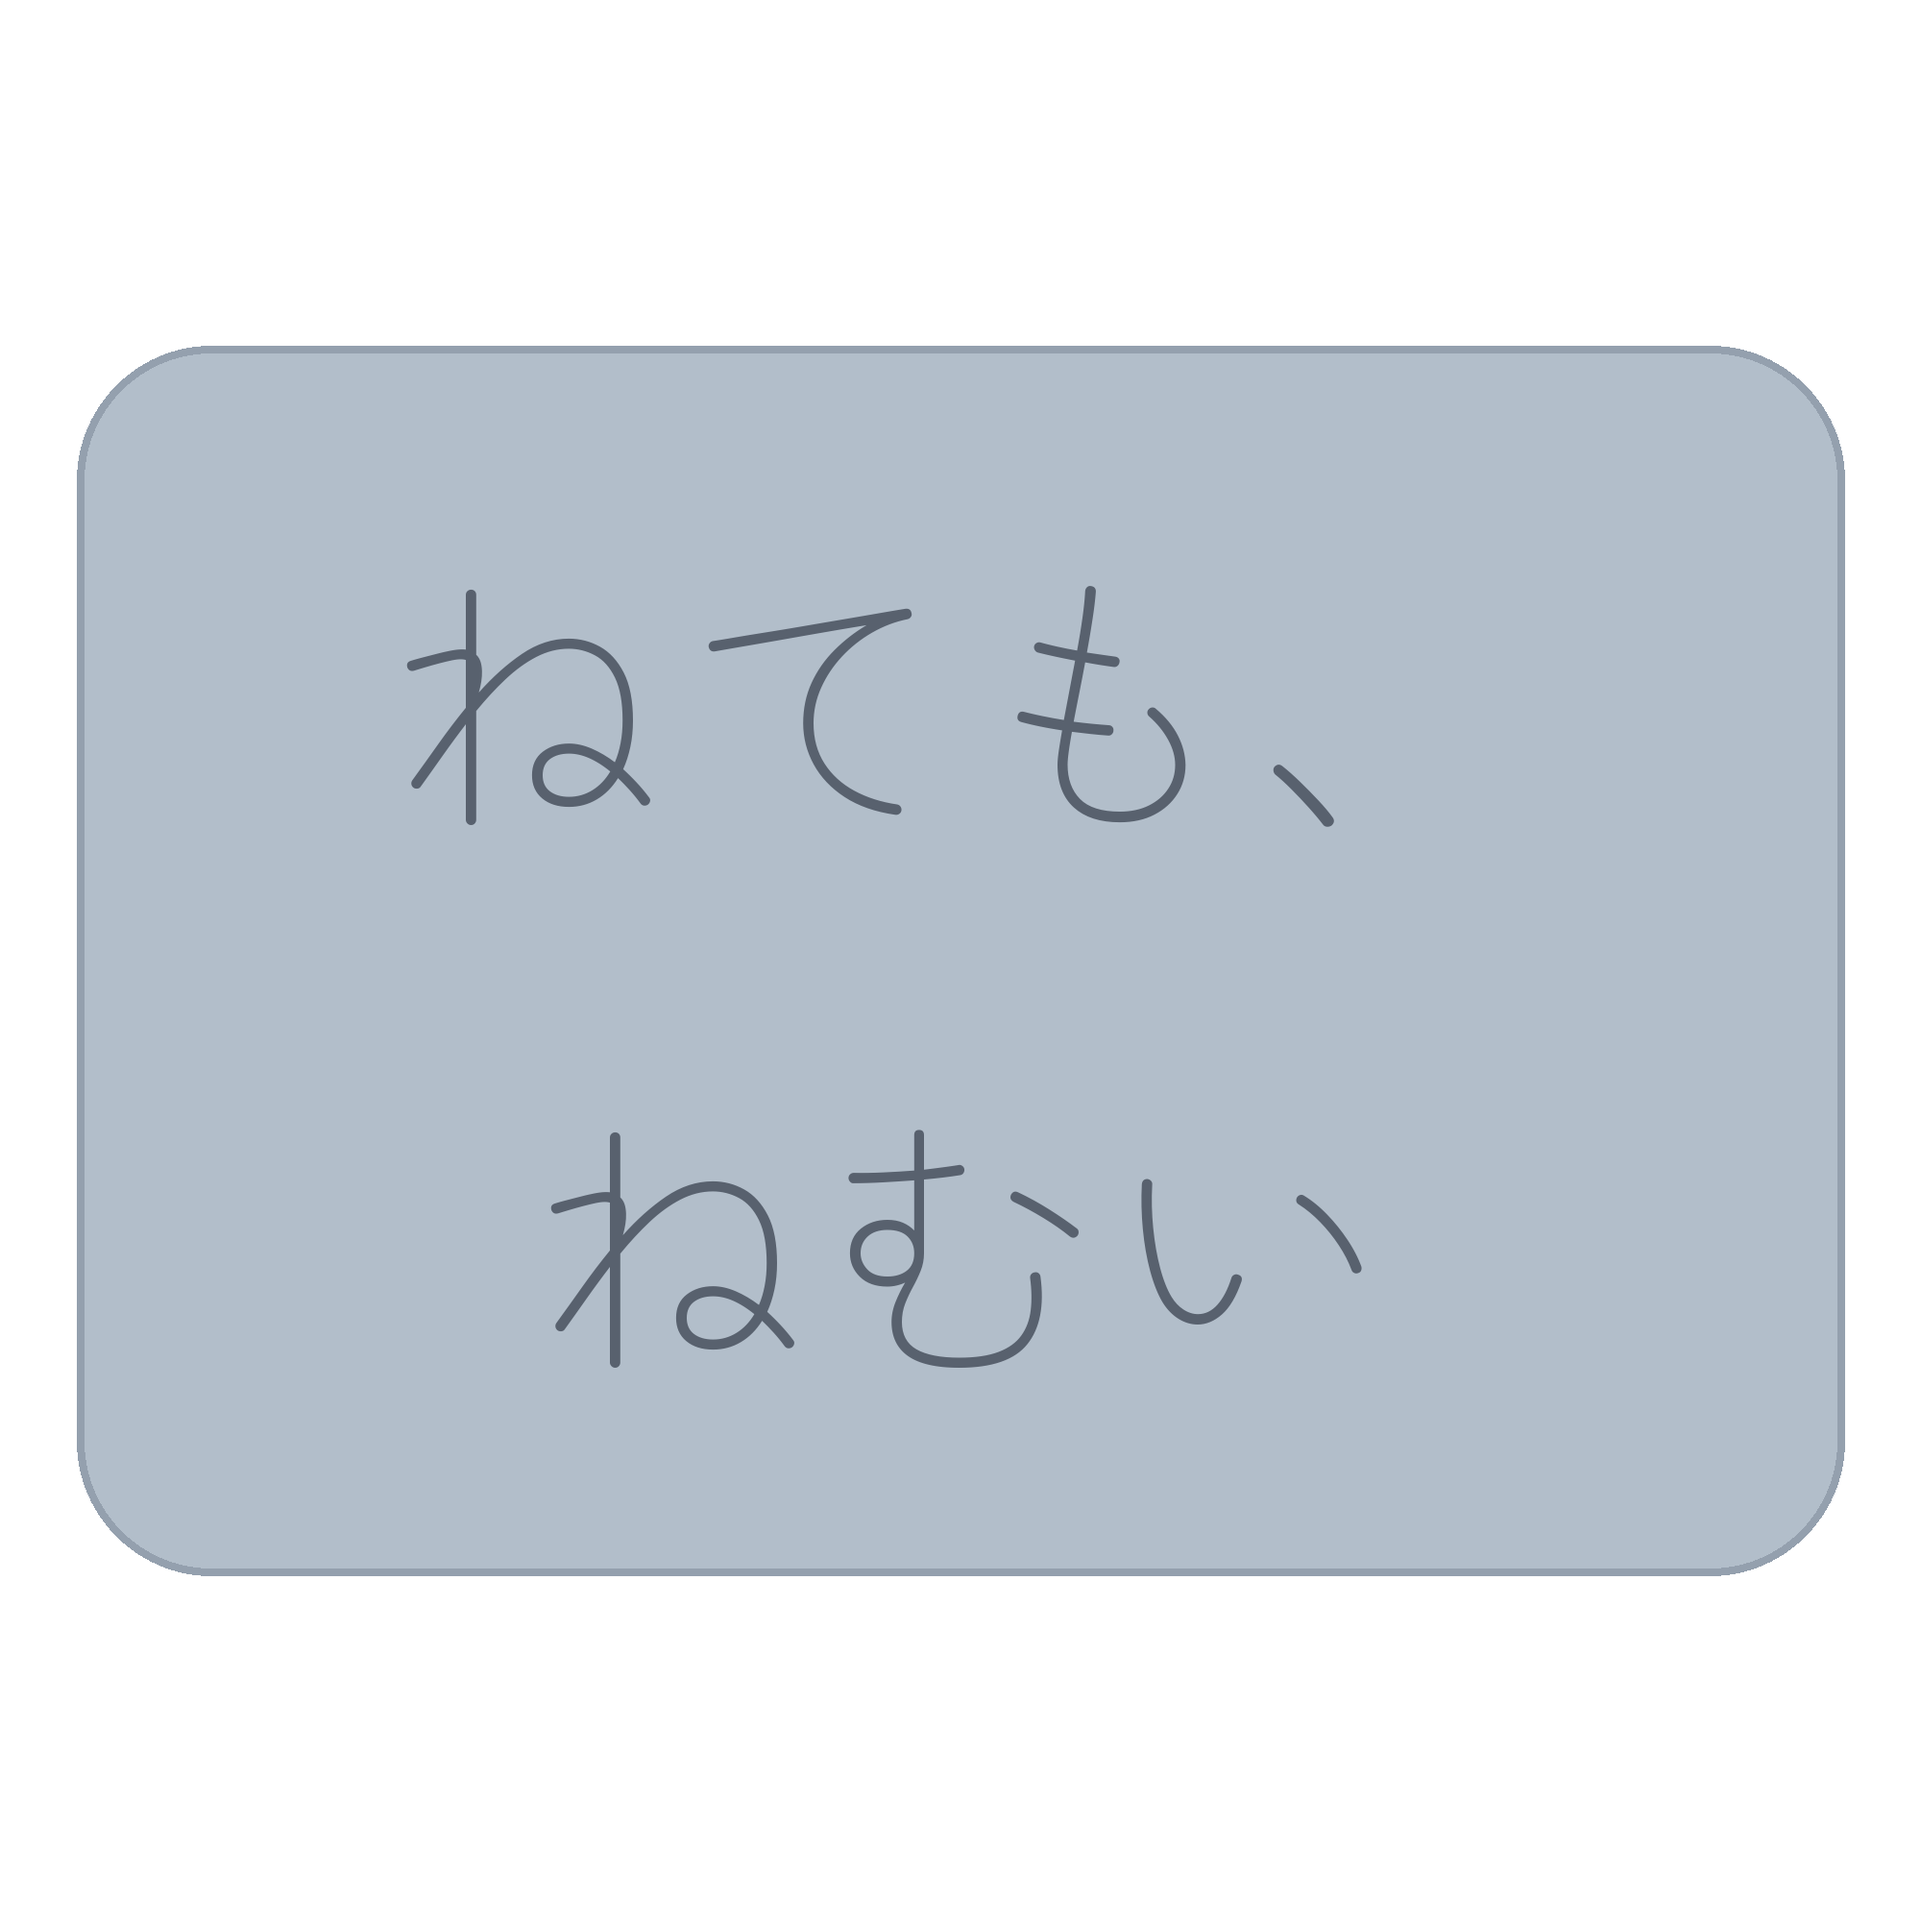
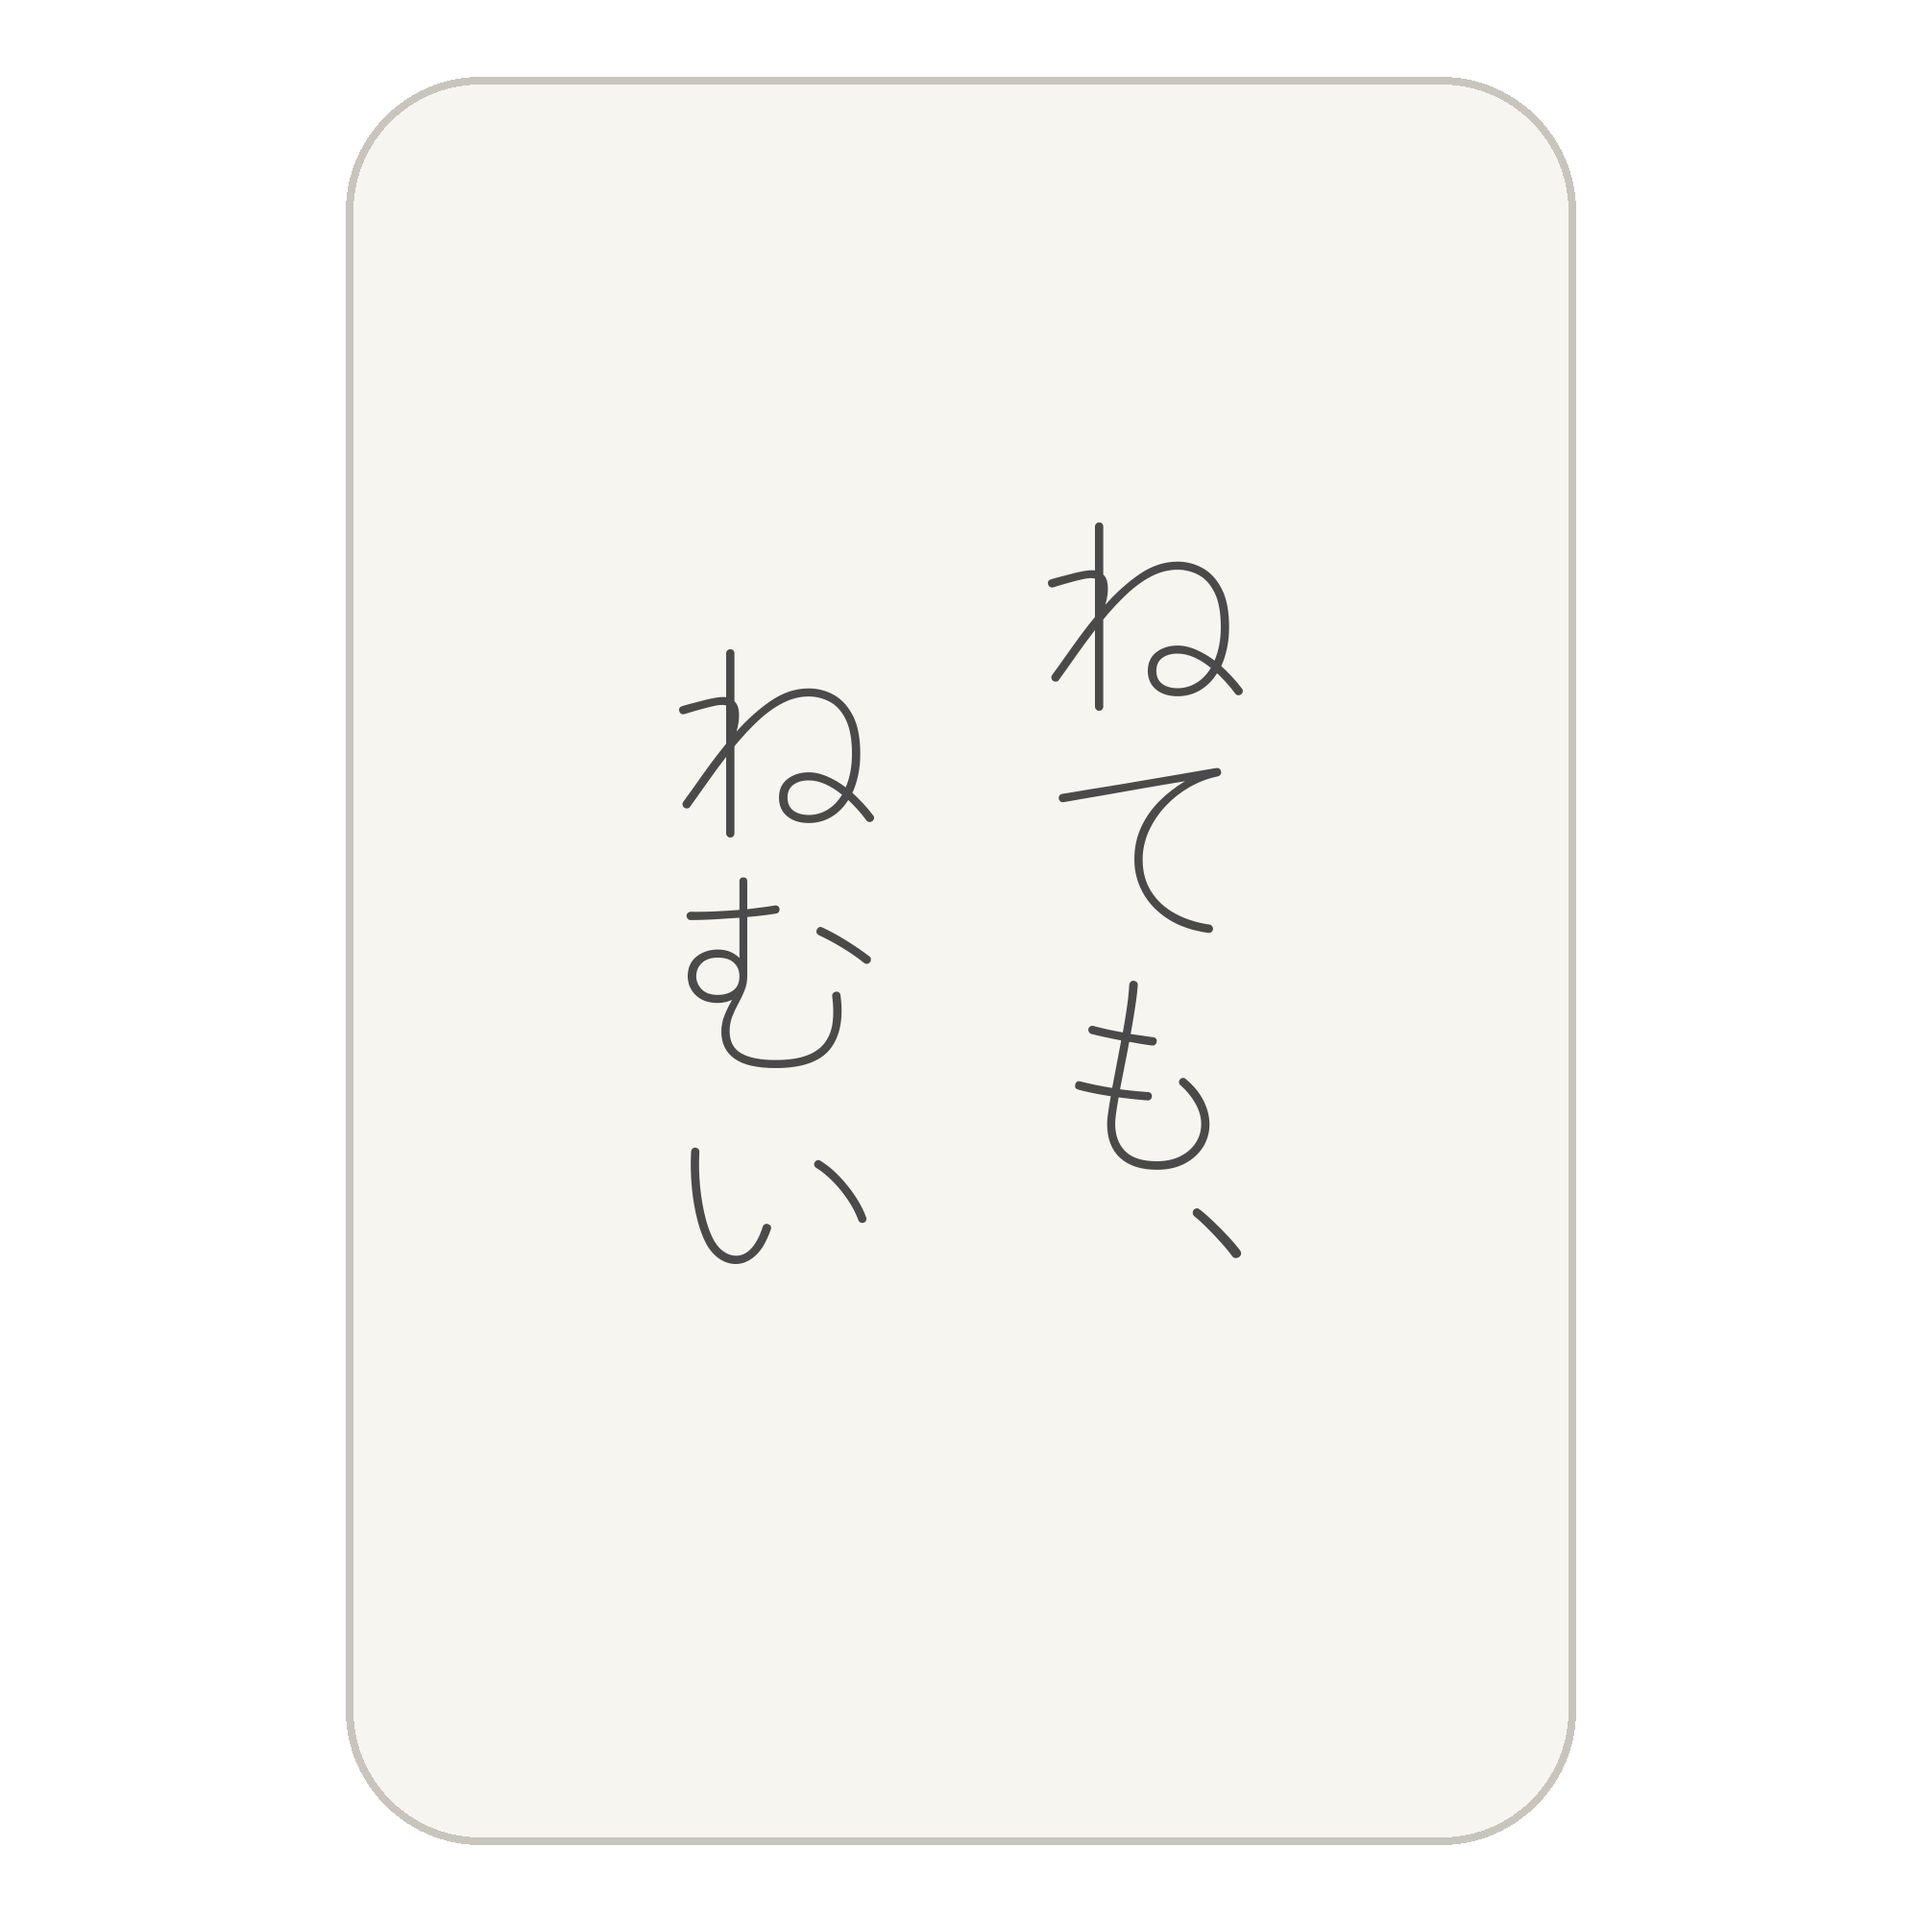
縦書き版(濃いめグレー文字)のデザインに変更
生成りの縦長角丸台座に、右列→左列の2列縦書き。左列を
約0.55字ぶん下げて句のリズムを作った。縦書きの句読点・
拗促音の組版はlibraqmとフォントの縦書きグリフに任せる。
文字色は従来より濃いグレー(74,74,74)。

Claude-Session: https://claude.ai/code/session_01Hth1TDsqnV3mvtVRGZwAwr

diff --git a/stickers/generate.py b/stickers/generate.py
@@ -2,8 +2,10 @@
 """「〜ても、シリーズ」ステッカー入稿データ生成スクリプト
 
 SUZURI入稿用の透過PNG(2000x2000)を stickers/png/ に出力する。
-デザインは角丸台座のくすみブルー版: 全種共通の角丸長方形ベースに
-2行組みの文字。1枚ものなのでカットラインは外周1本になる。
+デザインは縦書き版: 生成り色の縦長角丸台座に、右列→左列の
+2列組みで縦書き(左列は少し下げて句のリズムを作る)。
+縦書きの組版(句読点・拗促音の位置)はlibraqm+フォントの
+縦書き用グリフに任せる。1枚ものなのでカットラインは外周1本。
 フォント: Zen Maru Gothic Light (SIL Open Font License 1.1 / 商用利用可)
 
 使い方:
@@ -21,17 +23,19 @@ FONT_URL = (
 FONT_CACHE = os.path.join(os.path.dirname(__file__), "ZenMaruGothic-Light.ttf")
 
 CANVAS = 2000          # SUZURI推奨の大判サイズ
-MAX_LINE_WIDTH = 1460  # 文字の最大幅(台座の内側に収める)
-MAX_FONT_SIZE = 300    # 短い行が間延びしないよう上限を設ける
-LINE_SPACING = 1.30    # 行間(脱力感を出すためやや広め)
-COLOR = (88, 97, 110, 255)  # スレートグレー。ブルー台座に沈まない濃さにする
+COLOR = (74, 74, 74, 255)  # 濃いめのグレー1色
 
-# 台座: くすみブルーの角丸長方形(シリーズ共通)
-BASE_SIZE = (1840, 1280)
+# 台座: 生成りの縦長角丸長方形(シリーズ共通)
+BASE_SIZE = (1280, 1840)
 BASE_RADIUS = 140
-BASE_FILL = (178, 190, 202, 255)    # くすみブルー
-BASE_BORDER = (148, 160, 174, 255)  # うっすら枠線
+BASE_FILL = (247, 245, 240, 255)    # 生成り(真っ白より脱力する)
+BASE_BORDER = (201, 197, 188, 255)  # うっすら枠線
 BASE_BORDER_W = 8
+
+PAD_Y = 160            # 台座の上下端から文字までの最低余白
+MAX_FONT_SIZE = 240    # 短い句が間延びしないよう上限を設ける
+COL_GAP_EM = 1.60      # 右列と左列の中心間隔(フォントサイズ比)
+DROP_EM = 0.55         # 左列(2句目)を下げる量(句のリズム)
 
 STICKERS = [
     ("01-kaettemo", "かえっても、かえりたい"),
@@ -53,16 +57,25 @@ def load_font(size):
 
 
 def split_lines(text):
-    # 読点で2行に割る。読点は1行目の末尾に残す(諦めの「間」を作る)
+    # 読点で2句に割る。読点は1句目の末尾に残す(諦めの「間」を作る)
     head, _, tail = text.partition("、")
     return [head + "、", tail]
 
 
-def fit_font_size(lines):
+def column_height(draw, line, font):
+    box = draw.textbbox((0, 0), line, font=font, direction="ttb", anchor="mt")
+    return box[3] - box[1]
+
+
+def fit_font_size(draw, lines):
+    max_h = BASE_SIZE[1] - PAD_Y * 2
     size = MAX_FONT_SIZE
     while size > 10:
         font = load_font(size)
-        if max(font.getbbox(line)[2] for line in lines) <= MAX_LINE_WIDTH:
+        drop = int(size * DROP_EM)
+        h1 = column_height(draw, lines[0], font)
+        h2 = column_height(draw, lines[1], font) + drop
+        if max(h1, h2) <= max_h:
             return size
         size -= 4
     return size
@@ -70,11 +83,12 @@ def fit_font_size(lines):
 
 def render(slug, text):
     lines = split_lines(text)
-    size = fit_font_size(lines)
-    font = load_font(size)
 
     img = Image.new("RGBA", (CANVAS, CANVAS), (0, 0, 0, 0))
     draw = ImageDraw.Draw(img)
+    size = fit_font_size(draw, lines)
+    font = load_font(size)
+    drop = int(size * DROP_EM)
 
     bw, bh = BASE_SIZE
     bx, by = (CANVAS - bw) // 2, (CANVAS - bh) // 2
@@ -86,15 +100,19 @@ def render(slug, text):
         width=BASE_BORDER_W,
     )
 
-    ascent, descent = font.getmetrics()
-    line_height = int((ascent + descent) * LINE_SPACING)
-    total_height = line_height * (len(lines) - 1) + ascent + descent
-    y = (CANVAS - total_height) // 2
-
-    for line in lines:
-        w = draw.textlength(line, font=font)
-        draw.text(((CANVAS - w) // 2, y), line, font=font, fill=COLOR)
-        y += line_height
+    # 縦書きは右列から読むので、1句目を右・2句目を左に置く
+    gap = int(size * COL_GAP_EM)
+    h1 = column_height(draw, lines[0], font)
+    h2 = column_height(draw, lines[1], font) + drop
+    y_top = (CANVAS - max(h1, h2)) // 2
+    draw.text(
+        (CANVAS // 2 + gap // 2, y_top),
+        lines[0], font=font, fill=COLOR, direction="ttb", anchor="mt",
+    )
+    draw.text(
+        (CANVAS // 2 - gap // 2, y_top + drop),
+        lines[1], font=font, fill=COLOR, direction="ttb", anchor="mt",
+    )
 
     out_dir = os.path.join(os.path.dirname(__file__), "png")
     os.makedirs(out_dir, exist_ok=True)
@@ -109,7 +127,7 @@ def preview_sheet():
     cols = 3
     rows = (len(STICKERS) + cols - 1) // cols
     # ステッカーの輪郭(カットライン)が見えるよう、台座より暗い背景にする
-    sheet = Image.new("RGB", (cell * cols, cell * rows), (222, 220, 215))
+    sheet = Image.new("RGB", (cell * cols, cell * rows), (206, 203, 197))
     out_dir = os.path.join(os.path.dirname(__file__), "png")
     for i, (slug, _) in enumerate(STICKERS):
         img = Image.open(os.path.join(out_dir, f"{slug}.png")).resize(
